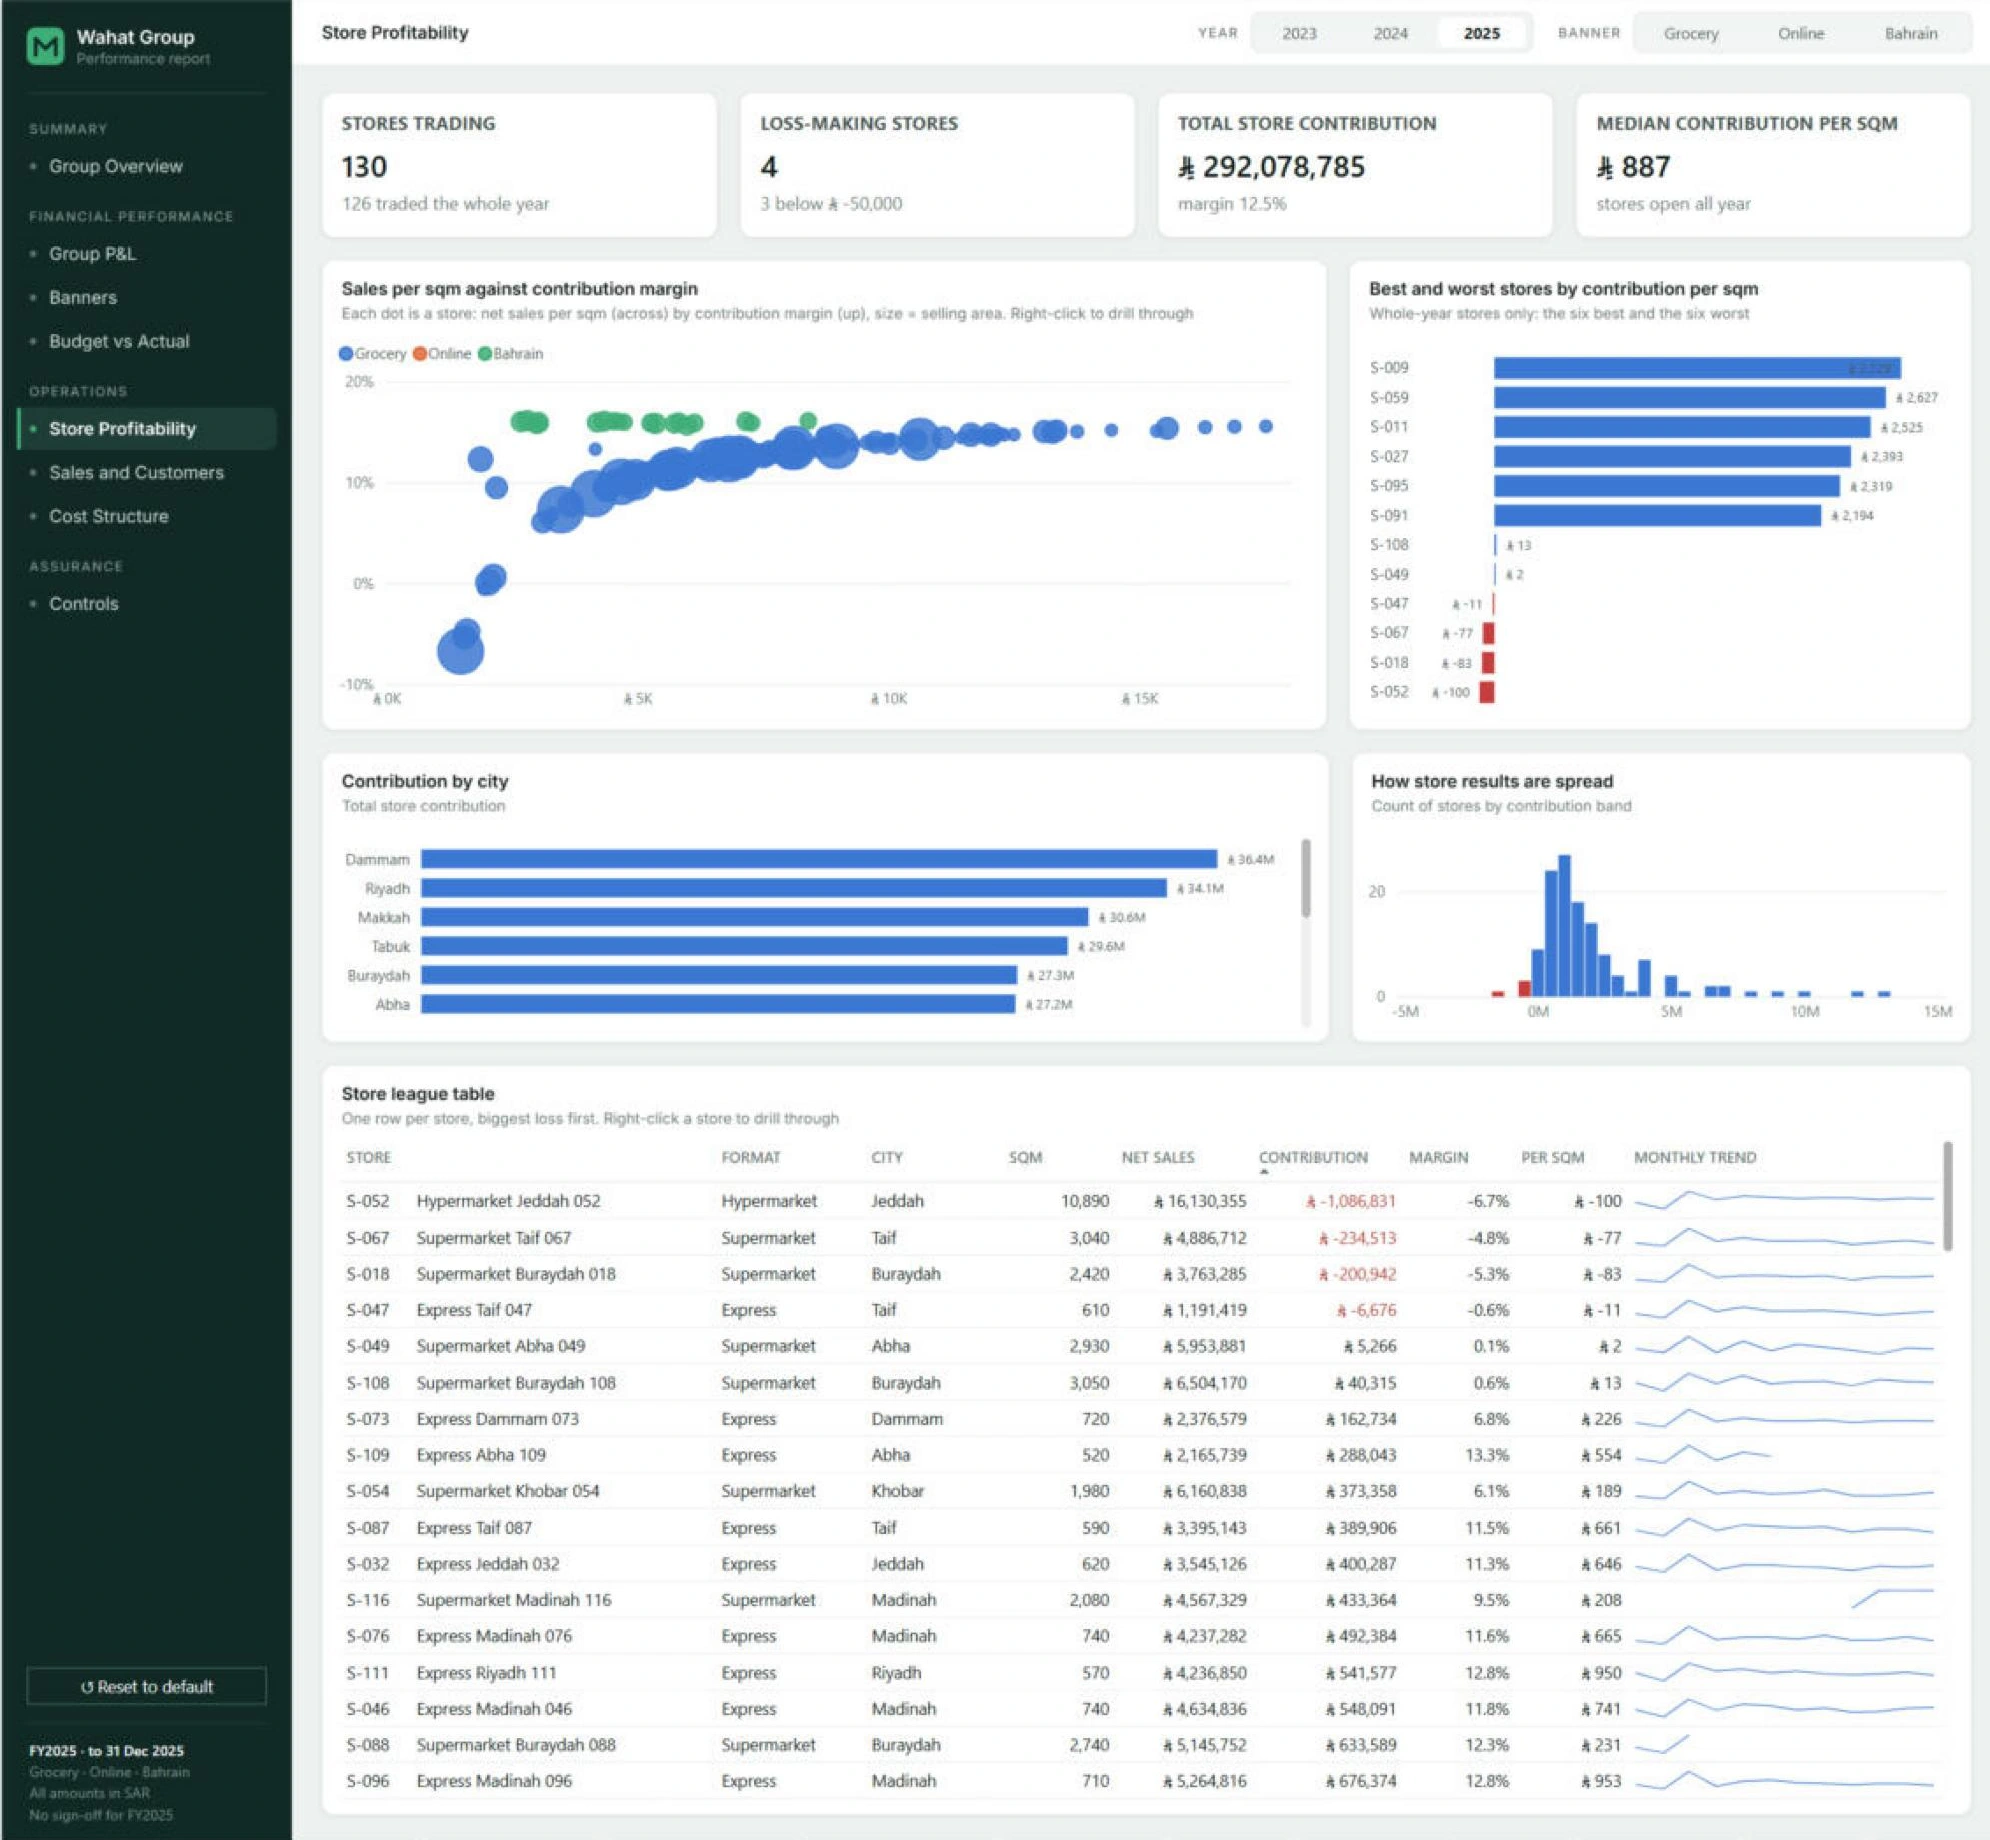
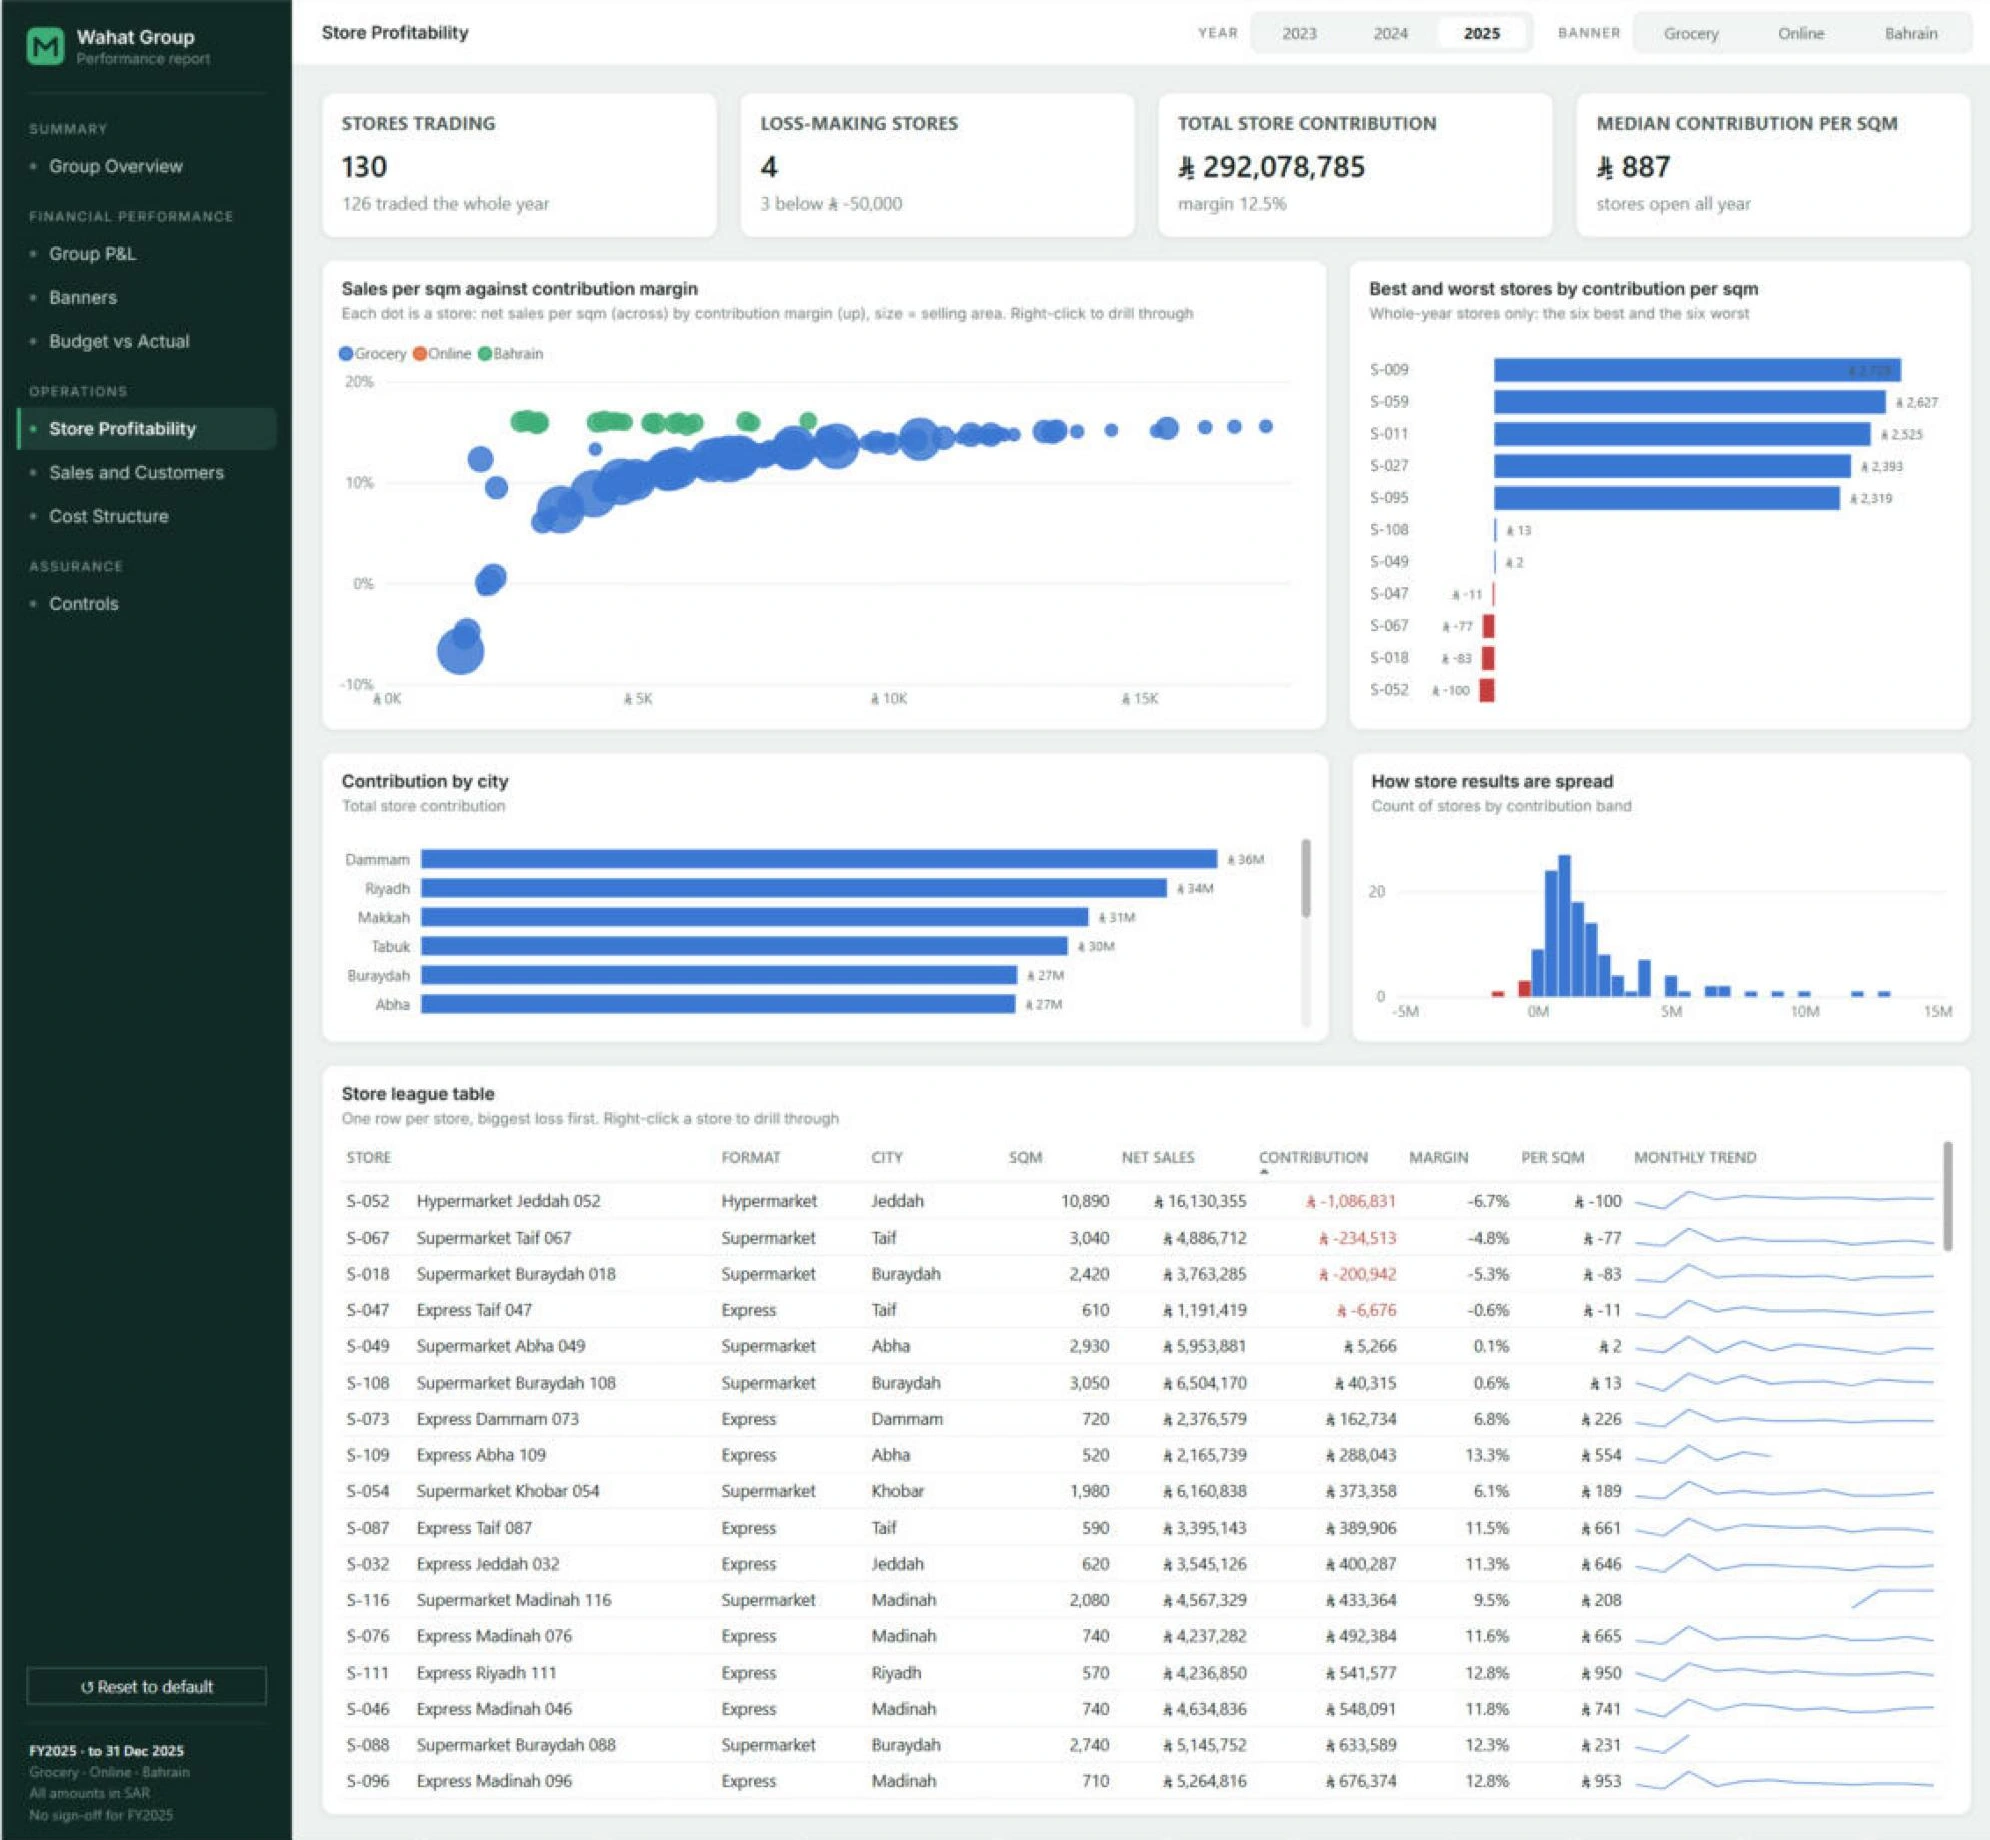
Set chart display units to Auto + Update Wahat Power BI write-up and screenshots for Auto chart units
- ov_bridge, pnl_bridge, sd_bridge, sd_trend, st_city, sa_category,
  sa_format: data labels from fixed millions/thousands to Auto, forced
  decimals removed.
- pnl_rev_month, sa_month, bud_month, he_suspense: value axis from fixed
  millions/thousands to Auto.
- Empty selections (e.g. Online in 2023) no longer show 0.00000M or
  0.0M. Tables and cards keep full numbers.
- power-bi/README.md: "Money always looks like money" and Display units
  sections now say charts use Auto and tables and tiles show full numbers.
- Retook screenshots 01, 02, 04, 05, 06, 08 and 09.

Changed region(s): [[0.7477, 0.1859, 0.9658, 0.3098], [0.6854, 0.1859, 0.7477, 0.3717]]

diff --git a/projects/wahat-retail-group-financial-report/power-bi/README.md b/projects/wahat-retail-group-financial-report/power-bi/README.md
@@ -162,14 +162,14 @@ Move the mouse over a month, a shop or a P&L line, and a small pop-up card appea
 
 Every amount shows the Saudi riyal sign, always on the left, with the minus sign after it (⃁ -1,938.4M). Every number on every page reads the same way, tooltips included.
 
-Each chart picks the size that reads best:
-- big totals in **millions** (⃁ 2,595.5M),
-- single shops in **thousands** (⃁ -234K),
-- money per square metre **in full** (⃁ 887).
+Every chart picks its own size automatically, so it always fits whatever is selected:
+- a whole year for the group reads in **billions** (⃁ 2.6bn),
+- one shop reads in **millions or thousands** (⃁ 4.9M, ⃁ -20K),
+- a filter with no data shows a clean empty chart, not strings of zeros.
 
-Every table shows **full numbers, to the last riyal** (⃁ 2,266,380,022).
+Every table and every number tile shows **full numbers, to the last riyal** (⃁ 2,266,380,022).
 
-**Why:** short numbers are easier on the eye in a chart. A table is read line by line and has to add up, so it can't round.
+**Why:** a chart is for shape, so it can round. A table is read line by line and has to add up, so it can't.
 
 ### 9. Simple sums on the inside, so it stays fast
 
@@ -3459,10 +3459,8 @@ The tooltip measures that build text use the same sign, so tooltips match the vi
 
 | Visual | Units |
 |---|---|
-| Profit bridges, contribution by city, monthly revenue, sales and budget charts | Millions, 1 decimal |
-| Store Detail bridge and trend | Thousands |
+| Every chart (bridges, trends, bar charts), labels and axes | Auto, so the unit follows the data and empty filters stay clean |
 | Every table and matrix (P&L statement, budget variance, banner scorecard, store league table, Controls), KPI cards, per-sqm figures | None: full numbers, so every row adds up |
-| Everything else | Auto |
 
 ### Every page and visual
 
